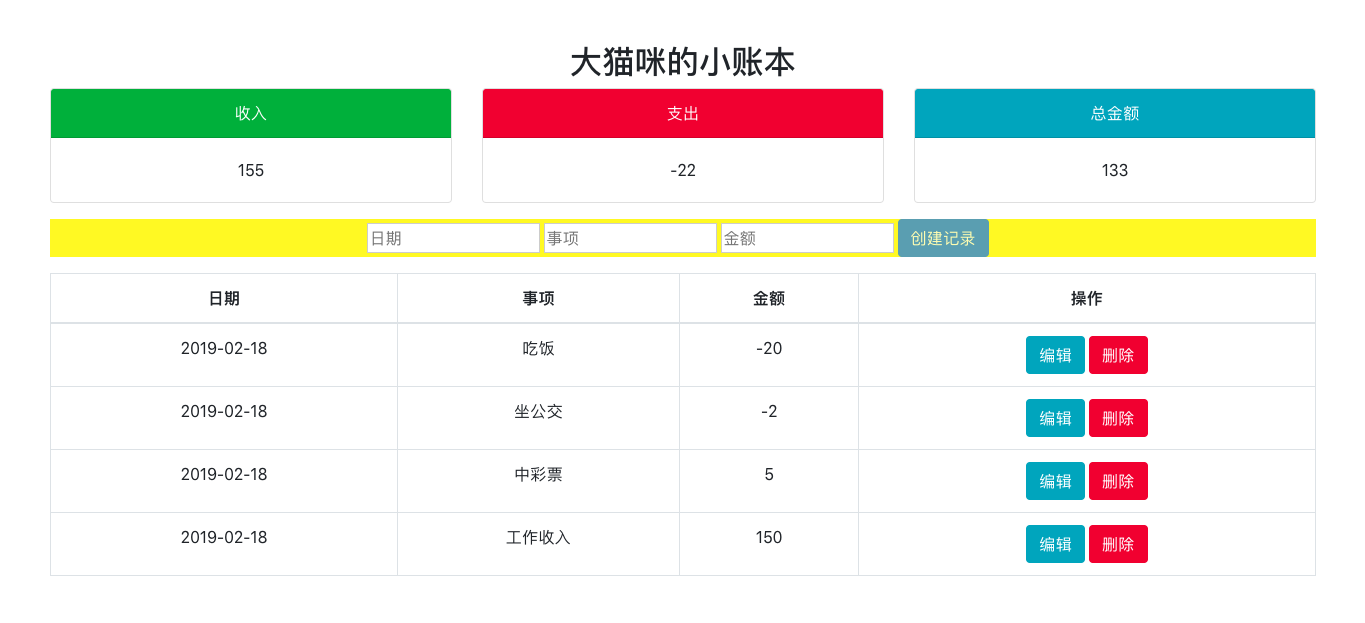
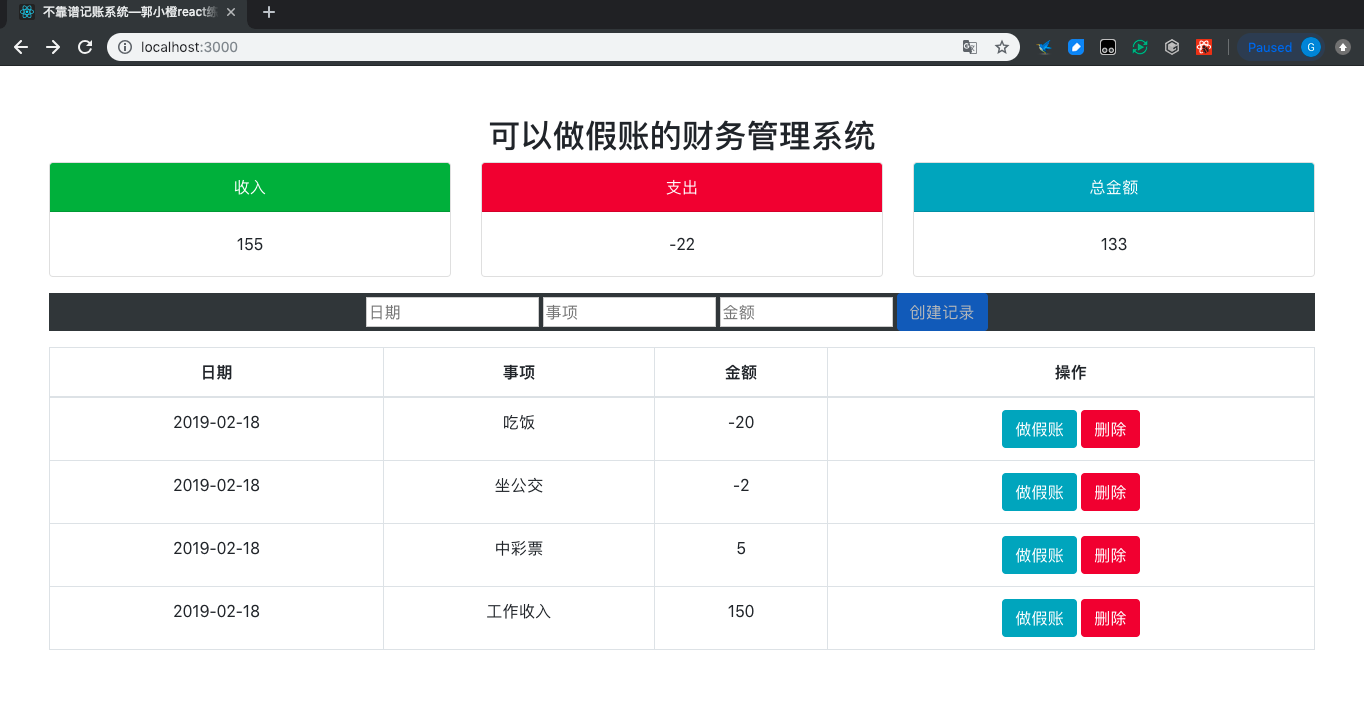
chore(text): Modify text content

diff --git a/accounts-app/src/components/Record.js b/accounts-app/src/components/Record.js
@@ -56,7 +56,7 @@ export default class Record extends Component {
             <td>{this.props.record.title}</td>
             <td>{this.props.record.amount}</td>
             <td>
-              <button className="btn btn-info mr-1" onClick={this.handleToggle.bind(this)}>编辑</button>
+              <button className="btn btn-info mr-1" onClick={this.handleToggle.bind(this)}>做假账</button>
               <button className="btn btn-danger"onClick={this.handleDelete.bind(this)}>删除</button>
             </td>
           </tr>
@@ -71,7 +71,7 @@ export default class Record extends Component {
       <td><input type="text" className="form-control" defaultValue = {this.props.record.title} ref = "title"/></td>
       <td><input type="text" className="form-control" defaultValue = {this.props.record.amount} ref = "amount"/></td>
       <td>
-        <button className="btn btn-info mr-1" onClick={this.handleEdit.bind(this)}>更新</button>
+        <button className="btn btn-info mr-1" onClick={this.handleEdit.bind(this)}>更新假账</button>
         <button className="btn btn-danger" onClick={this.handleToggle.bind(this)}>取消</button>
       </td>
     </tr>

diff --git a/accounts-app/src/components/Records.js b/accounts-app/src/components/Records.js
@@ -107,7 +107,7 @@ class Records extends Component {
       // width:"80%"
     };
     let centerStyle={
-      backgroundColor:"#fff35a",
+      backgroundColor:"#313639",
     }
     if(err)
       recordsComponent = <div>啊偶出现了bug！{err.message}</div>;
@@ -143,7 +143,7 @@ class Records extends Component {
     }
     return(
       <div style = {mystyle}>
-          <h2>大猫咪的小账本</h2>
+          <h2>可以做假账的财务管理系统</h2>
           <div className="row mb-3">
             <AmountBox text="收入" type = "success" amount={this.credits()}/>
             <AmountBox text="支出" type = "danger" amount={this.debits()}/>

diff --git a/accounts-app/public/index.html b/accounts-app/public/index.html
@@ -23,7 +23,7 @@
       work correctly both with client-side routing and a non-root public URL.
       Learn how to configure a non-root public URL by running `npm run build`.
     -->
-    <title>React App</title>
+    <title>不靠谱记账系统—郭小橙react练习</title>
   </head>
   <body>
     <noscript>You need to enable JavaScript to run this app.</noscript>
